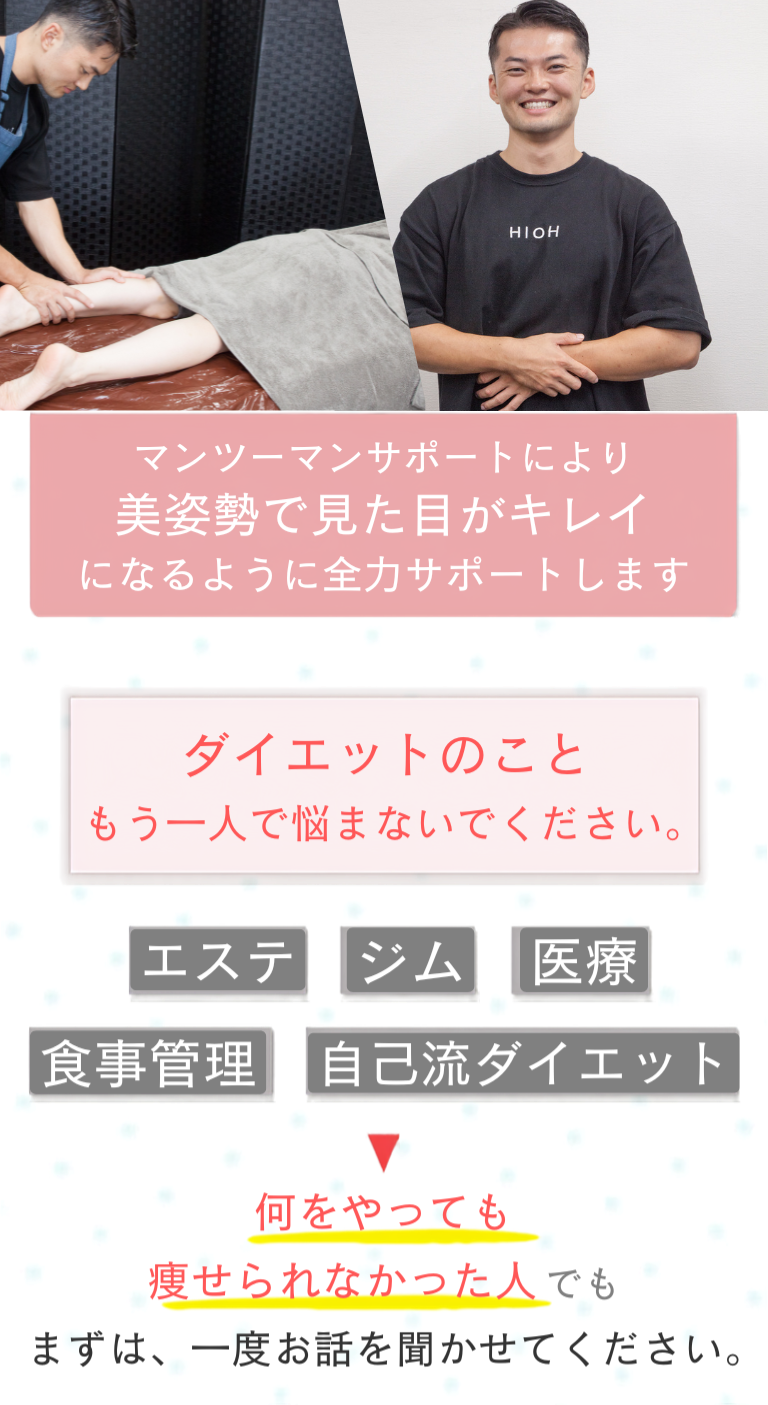
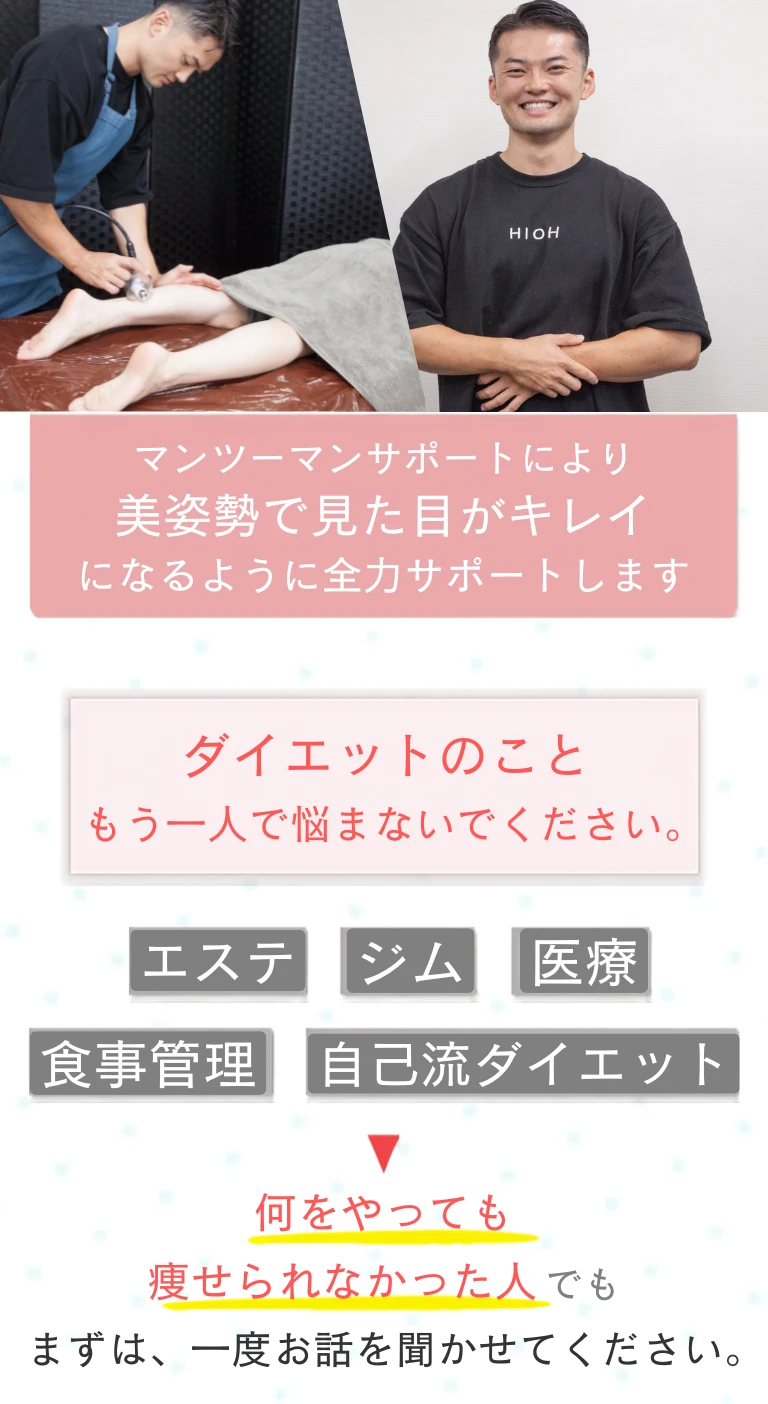
Swap in five updated section images
Each supplied image was matched to its existing file by whole-image
comparison rather than by dimensions alone, because two of them no longer
match the size they replace:

  cta-main.png       1299 -> 1299  new photos in the four-panel grid
  12-diet-truth.png  1405 -> 1404
  19-reason-01.png   1218 -> 1218  "柔和療法整体師による" -> "現役選手兼トレーナー・整体師による"
  21-reason-03.png   1303 -> 1260
  29-shop-01.png      438 ->  438  "ダイエット専門整体院" -> "パーソナルジム＆整体院"

The fourth image is 768x1260, one pixel off 20-reason-02.png's 768x1261,
but its content (骨盤矯正 / 痩せられる理由4) belongs to 21-reason-03.png —
matching on size would have overwritten the wrong section. The height
attributes in index.html and the README size column follow the two images
whose height changed.

Verified in Chromium: 53 images load, declared and intrinsic sizes agree
on every one, no layout problems and no horizontal scroll.

Claude-Session: https://claude.ai/code/session_01YDNfDSVnqqEGd8VKB9pYDG

diff --git a/index.html b/index.html
@@ -92,7 +92,7 @@
     <section aria-label="当ジムの施術について">
       <img class="lp__img" src="images/11-treatment.png" width="768" height="1463" loading="lazy"
            alt="当ジムで行うパーソナル指導・整体の内容">
-      <img class="lp__img" src="images/12-diet-truth.png" width="768" height="1405" loading="lazy"
+      <img class="lp__img" src="images/12-diet-truth.png" width="768" height="1404" loading="lazy"
            alt="何をやっても痩せなかった理由とダイエットの本当の仕組み">
     </section>
 
@@ -154,7 +154,7 @@
            alt="痩せられる理由1">
       <img class="lp__img" src="images/20-reason-02.png" width="768" height="1261" loading="lazy"
            alt="痩せられる理由2">
-      <img class="lp__img" src="images/21-reason-03.png" width="768" height="1304" loading="lazy"
+      <img class="lp__img" src="images/21-reason-03.png" width="768" height="1260" loading="lazy"
            alt="痩せられる理由3">
       <img class="lp__img" src="images/22-reason-04.png" width="768" height="1449" loading="lazy"
            alt="痩せられる理由4">

diff --git a/README.md b/README.md
@@ -43,7 +43,7 @@ images/           デザイン画像（768px幅）
 | 9 | `09-worry-rank.png` | 768 × 1100 | お悩みランキング |
 | 10 | `10-diet-worry.png` | 768 × 665 | ダイエットお悩み |
 | 11 | `11-treatment.png` | 768 × 1463 | 当院の施術 768×1463 |
-| 12 | `12-diet-truth.png` | 768 × 1405 | ダイエットのこと 768×1404 |
+| 12 | `12-diet-truth.png` | 768 × 1404 | ダイエットのこと 768×1404 |
 | 13 | `13-ba-01.png` | 768 × 1224 | ビフォーアフ-MY4_01 |
 | 14 | `14-ba-02.png` | 768 × 1430 | BA_MY4_02 |
 | 15 | `15-ba-03.png` | 768 × 1497 | ビフォーアフ-MY4_03 |
@@ -52,7 +52,7 @@ images/           デザイン画像（768px幅）
 | 18 | `18-success-rate.png` | 768 × 512 | 成功率91% 768×511 |
 | 19 | `19-reason-01.png` | 768 × 1218 | 痩せられる理由1 768×1218 |
 | 20 | `20-reason-02.png` | 768 × 1261 | 痩せられる理由3 768×1260 |
-| 21 | `21-reason-03.png` | 768 × 1304 | 7つの理由_MY4_003 |
+| 21 | `21-reason-03.png` | 768 × 1260 | 7つの理由_MY4_003 |
 | 22 | `22-reason-04.png` | 768 × 1449 | 7つの理由_MY4_04 |
 | 23 | `23-reason-05.png` | 768 × 1464 | 痩せられる理由7 768×1464 |
 | 24 | `24-flow-01.png` | 768 × 1118 | 申込後の流れ_MY4_01 |
